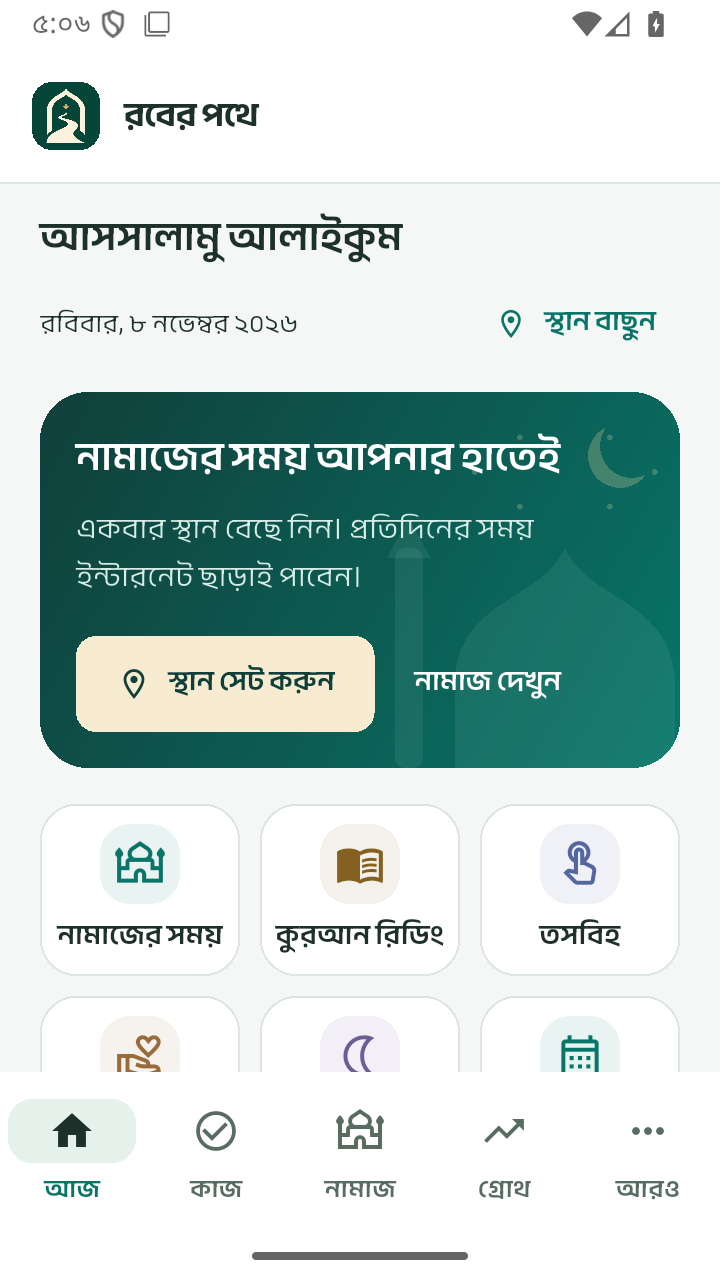
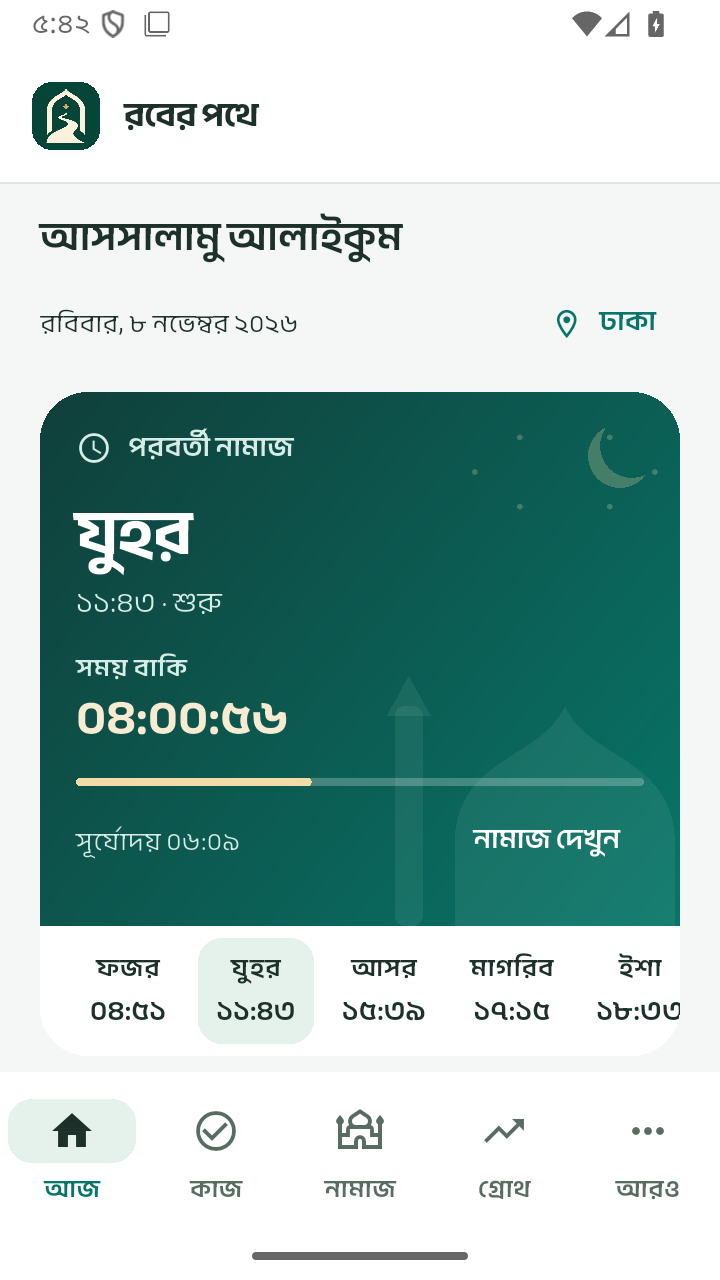
Verify native location and received diagnostics and bind functional evidence

diff --git a/tool/release_runtime_evidence.py b/tool/release_runtime_evidence.py
@@ -22,11 +22,117 @@ def write_json(path: Path, value: dict) -> None:
         temp.unlink(missing_ok=True)
 
 
+# Each flag has a named, scoped device receipt. Missing or stale evidence is false.
+SCOPED_CLAIMS = {
+    'current-controlled-startup.json': {
+        'independentDeviceApkHashVerified': ('installedApkHashMatches',),
+        'bundledPrivacyNativeVerified': ('bundledPrivacyVisible',),
+        'nativeSystemBackVerified': ('systemBackFromPrivacy',),
+    },
+    'current-native-flows.json': {
+        'nativeLoginFormSubmitted': ('nativePasswordSignIn',),
+        'nativePasswordLoginVerified': ('nativePasswordSignIn',),
+        'nativeTaskPersistenceVerified': ('serverVerification.0.nativeSavedTaskOnServer',),
+        'nativeAccountSwitchIsolationVerified': ('secondAccountOwnDataVisible', 'previousAccountDataAbsent'),
+        'nativeNotificationDenialVerified': ('notificationDenialHandled',),
+    },
+    'current-native-deletion.json': {
+        'nativeDeletionRecoveryVerified': ('nativeDeletionReturnsToLogin', 'coldRestartOtherAccountUnaffected'),
+        'nativeDeletionRouteRevocationVerified': ('remoteDeletionClosesPrivateDialog', 'backCannotRestorePrivateHome'),
+        'nativeDeletionServerCleanupVerified': ('serverVerification.deletedAuthIdentityAbsent', 'serverVerification.legacyActivitiesAbsent'),
+    },
+    'current-native-legacy.json': {
+        'android8StartupVerified': ('installedApkHashMatches', 'loginScreenVisible', 'bundledPrivacyVisible', 'systemBackFromPrivacy'),
+    },
+    'current-native-physical.json': {
+        'physicalStartupVerified': ('physicalDevice', 'installedApkHashMatches', 'loginScreenVisible'),
+    },
+    'current-native-physical-flows.json': {
+        'physicalNativePasswordSignInVerified': ('physicalDevice', 'nativePasswordSignIn'),
+        'physicalNativeTaskPersistenceVerified': ('physicalDevice', 'serverVerification.0.nativeSavedTaskOnServer'),
+        'physicalNativeAccountIsolationVerified': ('physicalDevice', 'secondAccountOwnDataVisible', 'previousAccountDataAbsent'),
+        'physicalCoreNavigationVerified': ('physicalDevice', 'coreNavigationOpened'),
+    },
+    'current-native-reminders.json': {
+        'nativeNotificationPermissionGrantVerified': ('nativeNotificationPermissionAllowed',),
+        'nativeDailyAlarmRegistrationVerified': ('nativeDailyAlarmScheduled',),
+        'nativeSignOutAlarmCancellationVerified': ('nativeSignOutCancelsAlarms',),
+        'nativeDiagnosticsConsentPersistenceVerified': ('diagnosticsEnabledByExplicitToggle', 'diagnosticsConsentSurvivesRestart', 'diagnosticsDisabledAgain'),
+    },
+    'current-native-delivery.json': {
+        'controlledClockNativeNotificationDeliveryVerified': ('nativeNotificationShadeDelivery', 'wallClockAdvancedPastInexactWindow'),
+        'nativeNotificationOsRevocationVerified': ('notificationPermissionRevokedThroughOs', 'optOutAfterOsRevocationCancelsAlarms'),
+    },
+    'current-native-location-diagnostics.json': {
+        'nativeLocationDenialVerified': ('locationPermissionDenialHandled',),
+        'nativeManualLocationFallbackVerified': ('manualLocationSavedWithoutPermission',),
+        'controlledCrashlyticsServerReceiptVerified': ('serverReportVerification.receivedByCrashlytics', 'explicitDiagnosticsOptInBeforeCrash', 'diagnosticsDisabledAfterTest'),
+        'nativePostCrashRestartVerified': ('postCrashRestartSucceeded',),
+    },
+}
+
+
+def _proved(record: dict, path: str) -> bool:
+    value = record
+    for part in path.split('.'):
+        if isinstance(value, dict):
+            value = value.get(part)
+        elif isinstance(value, list) and part.isdigit() and int(part) < len(value):
+            value = value[int(part)]
+        else:
+            return False
+    return value is True
+
+
+def reconcile_functional_evidence(docs: Path, bundle_sha256: str, summary: dict) -> None:
+    apk_sha256 = summary.get('universalApkSha256')
+    evidence = {}
+    for filename, claims in SCOPED_CLAIMS.items():
+        path = docs / filename
+        record = read_json(path) if path.exists() else {}
+        passed = record.get('matrixOutcome') == 'SUCCESS'
+        if filename == 'current-native-location-diagnostics.json':
+            # A deliberate app crash fails the provider matrix, while JUnit and
+            # an independently received, correlated report establish this case.
+            passed = passed or bool(
+                record.get('matrixOutcome') == 'FAILURE'
+                and record.get('matrixFailureExpectedFromControlledCrash') is True
+                and record.get('junitTestsPassed', 0) >= 1
+                and record.get('junitFailures') == 0
+                and _proved(record, 'explicitDiagnosticsOptInBeforeCrash')
+                and _proved(record, 'postCrashRestartSucceeded')
+                and _proved(record, 'diagnosticsDisabledAfterTest')
+                and _proved(record, 'serverReportVerification.receivedByCrashlytics'))
+        current = bool(apk_sha256 and record.get('sourceBundleSha256') == bundle_sha256
+                       and record.get('installedApkSha256') == apk_sha256
+                       and record.get('success') is True and passed)
+        evidence[filename] = {'current': current, 'scope': record.get('scope') if current else None}
+        for flag, fields in claims.items():
+            summary[flag] = current and all(_proved(record, field) for field in fields)
+    controlled = evidence['current-controlled-startup.json']['current']
+    record = read_json(docs / 'current-controlled-startup.json') if controlled else {}
+    summary['devicePageSizeSyscallVerified'] = bool(controlled and record.get('pageSize') == 16384
+                                                  and record.get('measurementProcess') == 'com.rakindotcom.ummah_assist.release_harness')
+    summary['physicalDeviceTested'] = bool(summary['physicalStartupVerified']
+                                         or summary['physicalCoreNavigationVerified'])
+    summary['nativeFunctionalEvidence'] = evidence
+    inventory_path = docs / 'current-store-captures/export-verification.json'
+    inventory = read_json(inventory_path) if inventory_path.exists() else {}
+    summary['currentStorePhoneScreenshots'] = (
+        len(inventory.get('screens', [])) if apk_sha256
+        and inventory.get('sourceBundleSha256') == bundle_sha256
+        and inventory.get('sourceApkSha256') == apk_sha256 else 0)
+
+
 def reconcile_runtime_evidence(docs: Path, bundle_sha256: str) -> bool:
     """Accept runtime proof only if it names this exact verified bundle."""
     smoke_path = docs / 'signed-release-smoke.json'
     smoke = read_json(smoke_path) if smoke_path.exists() else None
-    current = bool(smoke and smoke.get('sourceBundleSha256') == bundle_sha256
+    summary_path = docs / 'verification-summary.json'
+    summary = read_json(summary_path)
+    current = bool(smoke and summary.get('universalApkSha256')
+                   and smoke.get('universalApkSha256') == summary.get('universalApkSha256')
+                   and smoke.get('sourceBundleSha256') == bundle_sha256
                    and smoke.get('productionReleaseBinary')
                    and smoke.get('installedApkHashMatches')
                    and smoke.get('loginScreenVisibleInAccessibilityTree')
@@ -36,8 +142,6 @@ def reconcile_runtime_evidence(docs: Path, bundle_sha256: str) -> bool:
                    and smoke.get('pageSize') == 16384)
     cloud_path = docs / 'current-testlab-startup.json'
     cloud = read_json(cloud_path) if cloud_path.exists() else None
-    summary_path = docs / 'verification-summary.json'
-    summary = read_json(summary_path)
     cloud_current = bool(
         cloud and cloud.get('sourceBundleSha256') == bundle_sha256
         and cloud.get('uploadedApkSha256')
@@ -108,5 +212,19 @@ def reconcile_runtime_evidence(docs: Path, bundle_sha256: str) -> bool:
             smoke.get('scope',
                       'Current signed bundle startup/login passed on the dedicated 16 KB emulator; '
                       'profile audit and captures belong to a prior app build.'))
+    summary['nativeStartupEvidenceScope'] = summary['nativeEvidenceScope']
+    reconcile_functional_evidence(docs, bundle_sha256, summary)
+    startup_folder = docs / 'current-native-startup'
+    capture_names = (['device-details.png', 'sign-in.png'] if cloud_current else [])
+    if summary['nativeFunctionalEvidence']['current-controlled-startup.json']['current']:
+        capture_names += ['controlled-01-sign-in.png', 'controlled-02-privacy.png']
+    summary['currentNativeStartupCaptureCount'] = sum((startup_folder / name).is_file() for name in capture_names)
+    matching = [name for name, proof in summary['nativeFunctionalEvidence'].items() if proof['current']]
+    if matching:
+        summary['nativeRuntimeTested'] = True
+        summary['nativeEvidenceScope'] = (
+            ('Matching startup/16 KB proof and scoped native functional receipts are available. '
+             if current else 'Scoped native functional receipts match this candidate; the stronger startup/16 KB gate remains open. ')
+            + 'See nativeFunctionalEvidence for per-run scope and limits: ' + ', '.join(matching) + '.')
     write_json(summary_path, summary)
     return current

diff --git a/tool/test_release_runtime_evidence.py b/tool/test_release_runtime_evidence.py
@@ -17,11 +17,11 @@ class ReleaseRuntimeEvidenceTest(unittest.TestCase):
             'productionRuntimeBundleSha256': 'old',
         })
         write_json(self.docs / 'verification-summary.json', {
-            'bundleSha256': 'old', 'nativeRuntimeTested': True,
+            'bundleSha256': 'old', 'nativeRuntimeTested': True, 'universalApkSha256': 'apk',
             'signedReleaseStartupSmokePassed': True,
         })
         self.smoke = {
-            'sourceBundleSha256': 'old', 'currentBundleVerified': True,
+            'sourceBundleSha256': 'old', 'currentBundleVerified': True, 'universalApkSha256': 'apk',
             'productionReleaseBinary': True, 'installedApkHashMatches': True,
             'loginScreenVisibleInAccessibilityTree': True, 'firebaseInitialized': True,
             'firebaseCrashlyticsInitialized': True,
@@ -118,6 +118,52 @@ class ReleaseRuntimeEvidenceTest(unittest.TestCase):
         self.assertFalse(reconcile_runtime_evidence(self.docs, 'new'))
         self.assertFalse(read_json(self.docs / 'verification-summary.json')[
             'cloudSignedApkStartupVerified'])
+
+    def test_same_bundle_with_different_apk_invalidates_startup(self):
+        self.smoke['sourceBundleSha256'] = 'new'
+        write_json(self.docs / 'signed-release-smoke.json', self.smoke)
+        summary = read_json(self.docs / 'verification-summary.json')
+        summary['universalApkSha256'] = 'replacement'
+        write_json(self.docs / 'verification-summary.json', summary)
+        self.assertFalse(reconcile_runtime_evidence(self.docs, 'new'))
+        self.assertFalse(read_json(self.docs / 'verification-summary.json')['signedReleaseStartupSmokePassed'])
+
+    def test_functional_flags_cannot_survive_changed_bundle_or_apk(self):
+        record = {'sourceBundleSha256': 'new', 'installedApkSha256': 'apk',
+                  'success': True, 'matrixOutcome': 'SUCCESS', 'physicalDevice': True,
+                  'nativePasswordSignIn': True, 'coreNavigationOpened': True,
+                  'secondAccountOwnDataVisible': True, 'previousAccountDataAbsent': True,
+                  'serverVerification': [{'nativeSavedTaskOnServer': True}]}
+        path = self.docs / 'current-native-physical-flows.json'
+        write_json(path, record)
+        reconcile_runtime_evidence(self.docs, 'new')
+        self.assertTrue(read_json(self.docs / 'verification-summary.json')['physicalNativeTaskPersistenceVerified'])
+        for key in ['sourceBundleSha256', 'installedApkSha256', 'matrixOutcome']:
+            with self.subTest(changed=key):
+                changed = {**record, key: 'different'}
+                write_json(path, changed)
+                reconcile_runtime_evidence(self.docs, 'new')
+                summary = read_json(self.docs / 'verification-summary.json')
+                self.assertFalse(summary['physicalNativeTaskPersistenceVerified'])
+                self.assertFalse(summary['physicalDeviceTested'])
+
+    def test_expected_crash_needs_passing_junit_and_received_report(self):
+        record = {'sourceBundleSha256': 'new', 'installedApkSha256': 'apk',
+                  'success': True, 'matrixOutcome': 'FAILURE',
+                  'matrixFailureExpectedFromControlledCrash': True,
+                  'junitTestsPassed': 1, 'junitFailures': 0,
+                  'explicitDiagnosticsOptInBeforeCrash': True,
+                  'postCrashRestartSucceeded': True, 'diagnosticsDisabledAfterTest': True,
+                  'serverReportVerification': {'receivedByCrashlytics': True}}
+        path = self.docs / 'current-native-location-diagnostics.json'
+        write_json(path, record)
+        reconcile_runtime_evidence(self.docs, 'new')
+        self.assertTrue(read_json(self.docs / 'verification-summary.json')['controlledCrashlyticsServerReceiptVerified'])
+        for changed in [{**record, 'junitFailures': 1},
+                        {**record, 'serverReportVerification': {'receivedByCrashlytics': False}}]:
+            write_json(path, changed)
+            reconcile_runtime_evidence(self.docs, 'new')
+            self.assertFalse(read_json(self.docs / 'verification-summary.json')['controlledCrashlyticsServerReceiptVerified'])
 
 
 if __name__ == '__main__':

diff --git a/tool/package_play_release.py b/tool/package_play_release.py
@@ -64,7 +64,8 @@ def main():
                  'current-controlled-startup.json', 'current-native-flows.json',
                  'current-native-deletion.json', 'current-native-legacy.json',
                  'current-native-reminders.json', 'current-native-physical.json',
-                 'current-native-delivery.json', 'current-native-physical-flows.json']:
+                 'current-native-delivery.json', 'current-native-physical-flows.json',
+                 'current-native-location-diagnostics.json']:
         shutil.copy2(docs / name, destination / name)
     shutil.copytree(docs / 'current-native-startup', destination / 'current-native-startup')
     shutil.copytree(docs / 'current-native-flows', destination / 'current-native-flows')

diff --git a/docs/release/current-release-audit.md b/docs/release/current-release-audit.md
@@ -10,9 +10,11 @@ separate offline preview are outside this release. Production continues through
 `lib/main.dart` → `AppBootstrap` → `AuthGate` → `HomeShell`.
 
 **The signed candidate is prepared; public release approval remains open.**
-Local checks establish source behavior, deployed backend compatibility and
-artifact identity. They do not prove physical Android behavior, Play signing,
-OS notification delivery or an approved Console configuration.
+Local and cloud checks establish source behavior, deployed backend compatibility,
+artifact identity and scoped native flows on virtual and physical phones.
+Controlled OS alarm delivery and received optional diagnostics are verified.
+Natural-clock latency, reboot/Doze, long-session behavior and Play-delivered
+signing/OAuth/Console configuration remain open.
 
 ## Evidence by requirement
 
@@ -22,7 +24,7 @@ OS notification delivery or an approved Console configuration.
 | Reproducible source checkpoint | Verified | `fe768742b0b8fc4854e71f3d0138811f2a72af58`; no later app-source changes. |
 | Static analysis | Passed | `flutter analyze --no-pub`: no issues. |
 | Flutter regression suite | Passed | 525 passed, 2 browser-only future migration tests skipped. Includes phone layouts, enlarged Bangla text, semantics, core feature flows and account guards. |
-| Release evidence tooling | Passed | 5 Python tests; mismatched APK/bundle hashes and resigning cloud modes cannot inherit startup proof. A Robo success cannot unlock the stronger direct-device packet gate; the separate-process driver now supplies that stronger proof. |
+| Release evidence tooling | Passed | 8 Python tests; mismatched APK/bundle hashes and resigning cloud modes cannot inherit startup proof. A Robo success cannot unlock the stronger direct-device packet gate; the separate-process driver supplies that stronger proof. Scoped functional flags and store-capture counts invalidate when their APK/bundle identity changes; expected diagnostic crashes require passing JUnit and a received report. |
 | Deletion and ownership rules | Passed locally | 14 Auth/Firestore emulator cases after the patched lockfile install; synthetic data only. |
 | Test dependency advisories | Passed | Compatible lockfile resolution removes six moderate transitive advisories; fresh `npm ci` and audit report zero vulnerabilities. These Node packages are not shipped in the app. |
 | Live backend and legal pages | Verified | Tested rules and Hosting deployed to `assistummah`; live privacy HTML, deletion inventory, JavaScript and deletion planner match source hashes. See [backend receipt](current-backend-verification.json). |
@@ -41,8 +43,10 @@ OS notification delivery or an approved Console configuration.
 | Physical Android startup | Passed within scope | Physical Pixel 8 / Android14 API34: original installed APK hash, login, bundled privacy and Back passed. [Receipt](current-native-physical.json). This Pixel startup run does not cover authentication; the separate Galaxy A15 row covers core signed-in flows. Reboot/Doze and Play-installed behavior remain open. |
 | Physical signed-in core flows | Passed within scope | Samsung Galaxy A15 / Android16: native login, task save with server confirmation, core navigation, permission denial, logout and account isolation passed. [Receipt](current-native-physical-flows.json). A 68-second functional session does not establish long-session performance or reboot/Doze behavior. |
 | Native deletion and interrupted recovery | Passed | Remote deletion marker closed an unsaved private dialog; Back did not restore private home. Native password confirmation finished deletion, then a cold restart allowed the other account. Server checks found nine root documents absent, eight owned collections empty, no activities, deleted Auth identity absent and only an empty anti-resurrection marker retained. Both synthetic fixtures were cleaned afterward. See [deletion receipt](current-native-deletion.json). |
-| Native reminders and diagnostics consent | Passed within scope | Permission grant, pending OS alarm registration, sign-out cancellation and diagnostics off/on/restart/off passed. [Receipt](current-native-reminders.json). Natural-clock latency, reboot/Doze and a received crash report remain unverified; the separate controlled-clock delivery row covers the native dispatch path. |
+| Native reminders and diagnostics consent | Passed within scope | Permission grant, pending OS alarm registration, sign-out cancellation and diagnostics off/on/restart/off passed. [Receipt](current-native-reminders.json). Natural-clock latency and reboot/Doze remain unverified; separate rows cover controlled delivery and the received diagnostic report. |
 | OS notification delivery and revocation | Passed under controlled clock | An original pending task alarm reached Android System UI after a disposable-device wall-clock advance. Clock restored; OS permission revoked; explicit opt-out cancelled alarms. [Receipt](current-native-delivery.json). Natural-clock latency, reboot/Doze and other OEM behavior remain open. |
+| Location denial and manual configuration | Passed | Native Android denial handled; advanced manual Dhaka coordinates and Asia/Dhaka timezone saved and reflected in calculated prayer views. [Receipt](current-native-location-diagnostics.json). |
+| Received optional diagnostics report | Passed with deliberate crash | Explicit opt-in, controlled synthetic Android crash, restart and opt-out passed. Server report matched build 4, package, time and shell-induced exception; no fixture identifiers/content or custom user identifiers found. JUnit passed; Test Lab reports matrix FAILURE for the expected deliberate crash. [Receipt](current-native-location-diagnostics.json). No real user session was crashed. |
 | Play-installed build and Google OAuth | Manual gate | Register the Play app-signing certificate in Firebase and test the Play-installed app. Upload-key verification alone does not prove this. |
 | Store declarations and listing | Prepared, unsubmitted | [Console handoff](console-handoff.md), [listing](store-listing.md), [Data safety](data-safety.md), artwork and release notes. Console stays manual by owner choice. |
 | Current phone store screenshots | Prepared and reviewed | Five actual 720×1280 native captures of this APK: home, prayer, growth, Quran and tasbih. Opaque RGB exports preserve original pixels. [Capture provenance](current-store-captures/README.md). Final Play-installed/Console preview remains manual. |
@@ -78,7 +82,8 @@ does not itself claim authenticated-home or physical-device coverage. The separa
 2. Test notification/location denial and revocation, approximate scheduling,
    reboot/Doze, timezone/day changes, keyboard/back navigation, large text,
    TalkBack, edge-to-edge layout, launcher/splash and modest-phone performance.
-3. Verify optional diagnostics off/on/off and a controlled Crashlytics receipt.
+3. Recheck optional diagnostics behavior in the Play-installed build; the original APK
+   now has a correlated received controlled-crash report and verified opt-out.
 4. Inspect the current phone screenshots in Console. Complete app access, Data safety, content
    rating, target audience, ads and developer identity in Console. Confirm code
    **4** is greater than every previously used code before uploading.

diff --git a/docs/release/README.md b/docs/release/README.md
@@ -28,7 +28,9 @@ startup test](current-controlled-startup.json) then verified the installed APK
 hash, measured 16 KB pages, opened bundled privacy and returned with Android
 Back. Scoped [signed-in native checks](current-native-flows.json) also passed.
 Native deletion/recovery, alarm registration/cancellation and diagnostics consent
-also passed. Timed OS delivery and manual Play gates remain open; the
+also passed. The original alarm reached Android System UI under a controlled
+clock change; location denial/manual setup and a received opt-in diagnostic
+report were verified. Natural-clock latency, reboot/Doze and manual Play gates remain open; the
 stronger startup evidence now permits a manual internal-test upload packet.
 
 Current functionality includes the prayer-first home with offline prayer and
@@ -214,8 +216,9 @@ signing credentials are excluded from that packet.
    controlled test report in Crashlytics. Do not crash a real user's session.
 7. Inspect Play's native SDK/ABI/16 KB warnings and pre-launch report. The current
    APK has matching ARM64 Android16/16 KB, Android8/4 KB and physical Pixel8
-   Android14 startup receipts. Physical authenticated/OS flows and the
-   Play-signed build still require verification.
+   Android14 startup receipts, plus physical GalaxyA15 Android16 login,
+   task persistence, navigation and isolation. Reboot/Doze, long-session
+   performance and the Play-signed build still require verification.
 8. Review the five current `current-store-captures/` phone images. Recapture any screen that differs
    in the final Play-installed build. Browser previews are not store screenshots.
 9. Complete [Data safety preparation](data-safety.md), app-access credentials,

diff --git a/docs/release/current-store-captures/README.md b/docs/release/current-store-captures/README.md
@@ -6,8 +6,9 @@ The original signed APK ran on virtual ARM64 Android 16 with 16 KB pages.
 The actual device viewport was set to 720×1280 pixels / density 320 before
 launch. These are native captures, not browser/widget renders or mockups.
 
-Screens show synthetic starter data and the app's initial location-not-selected
-state. They contain no passwords or account email addresses. Each selected
+Screens show synthetic starter data. Home and prayer show the calculated
+Dhaka schedule after actual manual UI setup, sourced from
+`../current-native-location-diagnostics.json`. They contain no passwords or account email addresses. Each selected
 screen was visually reviewed after download. The original tasbih transition frame was rejected. Its accepted replacement
 comes from `../current-native-delivery.json`, after waiting for the Flutter frame
 to reach the compositor. Per-screen provenance identifies that separate run.

diff --git a/docs/release/store-listing.md b/docs/release/store-listing.md
@@ -42,7 +42,7 @@ Support contact provided by the app owner: **teamframecipher@gmail.com**.
 - `store-assets/feature-graphic-1024x500.png`: 1024×500 RGB PNG.
 - `current-store-captures/store-01-home.png` through `store-05-dhikr.png`:
   five actual 720×1280 opaque RGB phone captures of the current signed APK.
-  Synthetic starter data; initial location-not-selected state. Read
+  Synthetic starter data; home/prayer show actual manually configured Dhaka times. Read
   `current-store-captures/README.md` and its export hashes. Inspect the
   final Play-installed app and Console locale preview before submission.
 - `native-captures/` belongs to a prior profile build and is historical reference.
